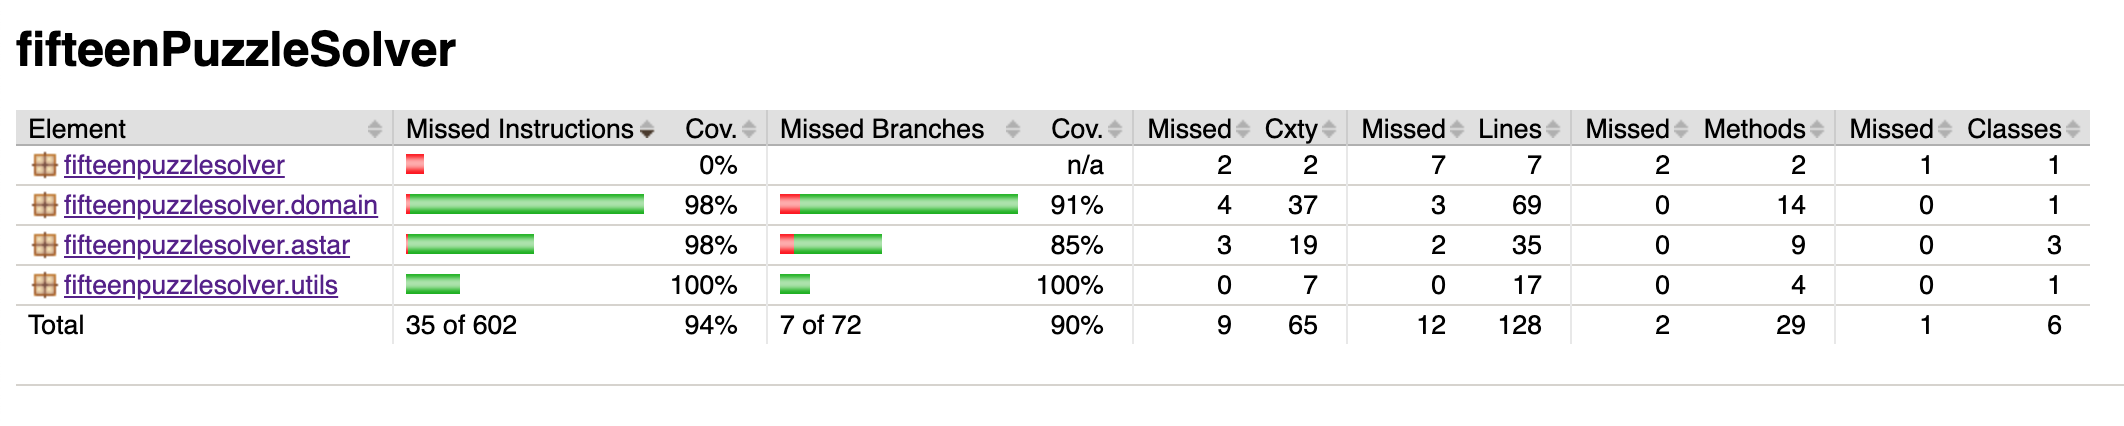
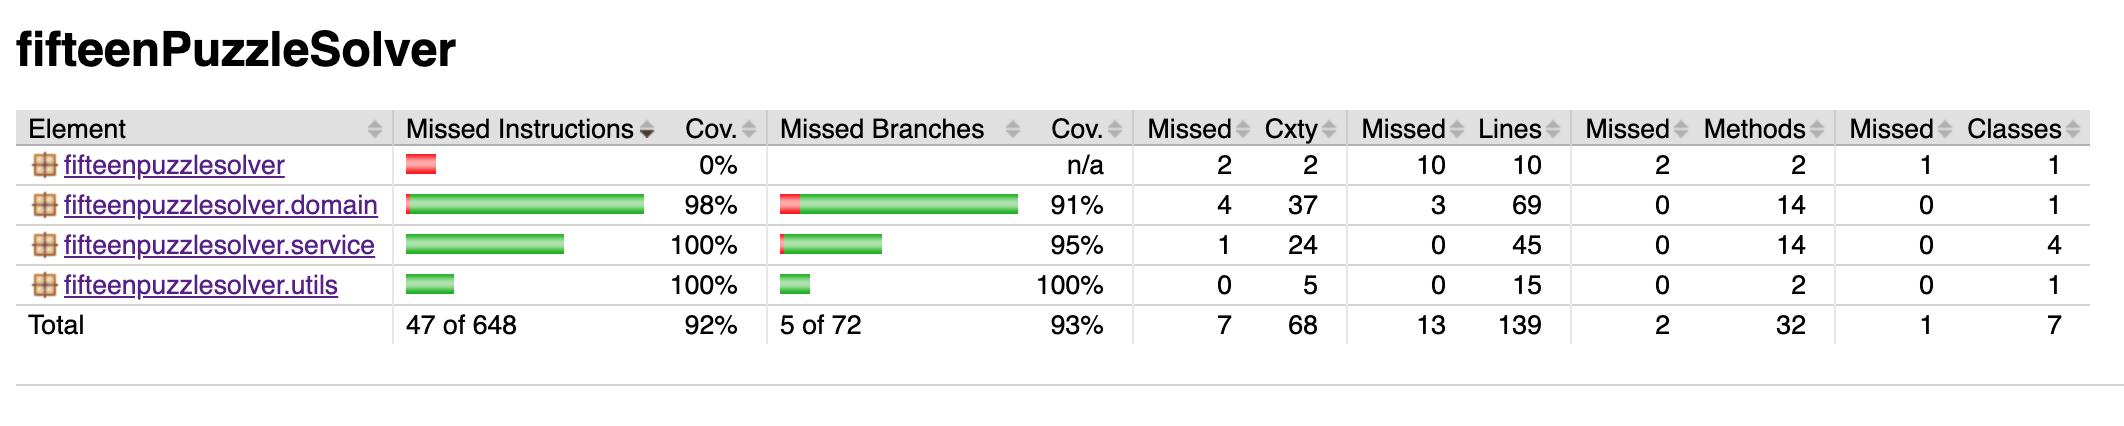
refactoring and more tests

diff --git a/src/main/java/fifteenpuzzlesolver/ui/TextUI.java b/src/main/java/fifteenpuzzlesolver/ui/TextUI.java
@@ -1,12 +1,8 @@
 
 package fifteenpuzzlesolver.ui;
 
-import fifteenpuzzlesolver.astar.AStar;
 import fifteenpuzzlesolver.domain.Puzzle;
-import fifteenpuzzlesolver.astar.StateComparatorManhattan;
-import fifteenpuzzlesolver.astar.StateComparatorPosition;
-import fifteenpuzzlesolver.utils.PuzzleGenerator;
-import java.util.Comparator;
+import fifteenpuzzlesolver.service.PuzzleService;
 import java.util.Scanner;
 
 /**
@@ -16,19 +12,16 @@ import java.util.Scanner;
 public class TextUI {
     
     private Scanner reader;
-    private AStar astar;
-    private PuzzleGenerator generator;
+    private PuzzleService service;
     
     /**
      * Constructor method.
      * @param reader Scanner which reads user input
-     * @param astar AStar algorithm class for solving puzzles
-     * @param generator Utility class for generating solvable puzzles
+     * @param service Class that provides methods for solving puzzles
      */
-    public TextUI(Scanner reader, AStar astar, PuzzleGenerator generator) {
+    public TextUI(Scanner reader, PuzzleService service) {
         this.reader = reader;
-        this.astar = astar;
-        this.generator = generator;
+        this.service = service;
     }
     
     /**
@@ -43,13 +36,11 @@ public class TextUI {
         System.out.println("x - Exit");
     }
     
-    public void solve(Puzzle puzzle, Comparator heuristic) {
-        long time1 = System.currentTimeMillis();
-        Puzzle endState = astar.traverse(puzzle, heuristic);
+    public void solve(long time1, Puzzle solved) {
         long time2 = System.currentTimeMillis();
-        
-        System.out.println(endState.toString());
-        System.out.println("Moves taken: " + endState.moves());
+                
+        System.out.println(solved.toString());
+        System.out.println("Moves taken: " + solved.moves());
         System.out.println("Time taken: " + (time2 - time1) / 1000 + " seconds");
     }
     
@@ -64,30 +55,22 @@ public class TextUI {
             String c = reader.nextLine();
             
             if (c.equals("e")) {
-                puzzle = generator.generateEasyPuzzle();
+                puzzle = this.service.generateEasyPuzzle();
                 System.out.println("GENERATED PUZZLE:");
                 System.out.println(puzzle.toString());
                 
             } else if (c.equals("h")) {
-                puzzle = generator.generateHardPuzzle();
+                puzzle = this.service.generateHardPuzzle();
                 System.out.println("GENERATED PUZZLE:");
                 System.out.println(puzzle.toString());
                 
-            } else if (c.equals("m")) {
-                if (puzzle == null) {
-                    System.out.println("No puzzle to solve - try to generate one!");
-                    continue;
-                }
-                StateComparatorManhattan manhattan = new StateComparatorManhattan();
-                solve(puzzle, manhattan);
+            } else if (c.equals("m") && puzzle != null) {
+                long time1 = System.currentTimeMillis();
+                solve(time1, this.service.solveWithManhattan(puzzle));
                 
-            } else if (c.equals("p")) {
-                if (puzzle == null) {
-                    System.out.println("No puzzle to solve - try to generate one!");
-                    continue;
-                }
-                StateComparatorPosition position = new StateComparatorPosition();
-                solve(puzzle, position);
+            } else if (c.equals("p") && puzzle != null) {
+                long time1 = System.currentTimeMillis();
+                solve(time1, this.service.solveWithPosition(puzzle));
                 
             } else if (c.equals("x")) {
                 break;

diff --git a/src/test/java/fifteenpuzzlesolver/service/TestPuzzleService.java b/src/test/java/fifteenpuzzlesolver/service/TestPuzzleService.java
@@ -1,0 +1,78 @@
+
+package fifteenpuzzlesolver.service;
+
+import fifteenpuzzlesolver.domain.FifteenPuzzle;
+import fifteenpuzzlesolver.domain.Puzzle;
+import fifteenpuzzlesolver.utils.PuzzleGenerator;
+import fifteenpuzzlesolver.utils.TestUtils;
+import java.util.Arrays;
+import java.util.List;
+import org.junit.Test;
+import static org.junit.Assert.*;
+
+/**
+ *
+ * @author miika
+ */
+public class TestPuzzleService {
+    
+    private PuzzleService service;
+    private List<int[]> boards;
+    
+    public TestPuzzleService() {
+        StateComparatorManhattan manhattan = new StateComparatorManhattan();
+        StateComparatorPosition position = new StateComparatorPosition();
+        PuzzleGenerator generator = new PuzzleGenerator();
+        TestUtils utils = new TestUtils();
+        AStar astar = new AStar();
+        
+        this.boards = utils.boardList();
+        this.service = new PuzzleService(astar, generator, manhattan, position);
+    }
+    
+    @Test
+    public void solveManhattanReturnsNullIfUnsolvable() {
+        assertEquals(null, this.service.solveWithManhattan(new FifteenPuzzle(this.boards.get(1))));
+    }
+    
+    @Test
+    public void solvePositionReturnsNullIfUnsolvable() {
+        assertEquals(null, this.service.solveWithPosition(new FifteenPuzzle(this.boards.get(1))));
+    }
+    
+    @Test
+    public void solveManhattanReturnsSolvedPuzzleIfSolvable() {
+        assertArrayEquals(this.boards.get(0), this.service.solveWithManhattan(new FifteenPuzzle(this.boards.get(2))).state());
+    }
+    
+    @Test
+    public void solvePositionReturnsSolvedPuzzleIfSolvable() {
+        assertArrayEquals(this.boards.get(0), this.service.solveWithPosition(new FifteenPuzzle(this.boards.get(2))).state());
+    }
+    
+    @Test
+    public void generatePuzzleIsFifteenPuzzle() {
+        Puzzle easyPuzzle = this.service.generateEasyPuzzle();
+        Puzzle hardPuzzle = this.service.generateHardPuzzle();
+        assertEquals(16, easyPuzzle.state().length);
+        assertEquals(16, hardPuzzle.state().length);
+    }
+    
+    @Test
+    public void generatePuzzleTilesSumUp() {
+        Puzzle easyPuzzle = this.service.generateEasyPuzzle();
+        Puzzle hardPuzzle = this.service.generateHardPuzzle();
+        int easyValue = Arrays.stream(easyPuzzle.state()).sum();
+        int hardValue = Arrays.stream(hardPuzzle.state()).sum();
+        assertEquals(120, easyValue);
+        assertEquals(120, hardValue);
+    }
+    
+    @Test
+    public void puzzleIsSolvable() {
+        assertTrue(this.service.generateEasyPuzzle().isSolvable());
+        assertTrue(this.service.generateHardPuzzle().isSolvable());
+    }
+    
+    
+}

diff --git a/src/main/java/fifteenpuzzlesolver/service/PuzzleService.java b/src/main/java/fifteenpuzzlesolver/service/PuzzleService.java
@@ -1,0 +1,68 @@
+
+package fifteenpuzzlesolver.service;
+
+import fifteenpuzzlesolver.domain.Puzzle;
+import fifteenpuzzlesolver.utils.PuzzleGenerator;
+
+/**
+ * Class that provides services for solving and generating puzzles.
+ * @author miika
+ */
+public class PuzzleService {
+ 
+    private AStar astar;
+    private PuzzleGenerator generator;
+    private StateComparatorManhattan manhattan;
+    private StateComparatorPosition position;
+    
+    /**
+     * Constructor method.
+     * @param astar Class that provides implementation of A* -algorithm
+     * @param generator Utility class that provides methods for generating puzzles
+     * @param manhattan Comparator class that uses manhattan heuristics for comparing puzzles
+     * @param position Comparator class that uses position based heuristics for comparing puzzles
+     */
+    public PuzzleService(AStar astar, PuzzleGenerator generator, StateComparatorManhattan manhattan,
+            StateComparatorPosition position) {
+        this.astar = astar;
+        this.generator = generator;
+        this.manhattan = manhattan;
+        this.position = position;
+    }
+    
+    /**
+     * Method which solves puzzle using A* and manhattan heuristics.
+     * 
+     * @param puzzle Puzzle to solve
+     * @return Solved puzzle if puzzle is solvable. Null otherwise
+     */
+    public Puzzle solveWithManhattan(Puzzle puzzle) {
+        return this.astar.traverse(puzzle, this.manhattan);
+    }
+    
+    /**
+     * Method which solves puzzle using A* and position based heuristics.
+     * 
+     * @param puzzle Puzzle to solve
+     * @return Solved puzzle if puzzle is solvable. Null otherwise
+     */
+    public Puzzle solveWithPosition(Puzzle puzzle) {
+        return this.astar.traverse(puzzle, this.position);
+    }
+    
+    /**
+     * Method for generating easy 15-puzzle. Puzzle have been shuffled 3 times
+     * @return 15-puzzle
+     */
+    public Puzzle generateEasyPuzzle() {
+        return this.generator.generatePuzzle(3);
+    }
+    
+    /**
+     * Method for generating hard 15-puzzle. Puzzle have been shuffled 100 times
+     * @return 15-puzzle
+     */
+    public Puzzle generateHardPuzzle() {
+        return this.generator.generatePuzzle(100);
+    }
+}

diff --git a/src/main/java/fifteenpuzzlesolver/FifteenPuzzleSolver.java b/src/main/java/fifteenpuzzlesolver/FifteenPuzzleSolver.java
@@ -1,7 +1,10 @@
 
 package fifteenpuzzlesolver;
 
-import fifteenpuzzlesolver.astar.AStar;
+import fifteenpuzzlesolver.service.AStar;
+import fifteenpuzzlesolver.service.PuzzleService;
+import fifteenpuzzlesolver.service.StateComparatorManhattan;
+import fifteenpuzzlesolver.service.StateComparatorPosition;
 import fifteenpuzzlesolver.ui.TextUI;
 import fifteenpuzzlesolver.utils.PuzzleGenerator;
 import java.util.Scanner;
@@ -12,11 +15,14 @@ import java.util.Scanner;
  */
 public class FifteenPuzzleSolver {
     public static void main(String[] args) {
+        StateComparatorManhattan manhattan = new StateComparatorManhattan();
+        StateComparatorPosition position = new StateComparatorPosition();
+        PuzzleGenerator generator = new PuzzleGenerator();
         Scanner reader = new Scanner(System.in);
         AStar astar = new AStar();
-        PuzzleGenerator generator = new PuzzleGenerator();
         
-        TextUI ui = new TextUI(reader, astar, generator);
+        PuzzleService service = new PuzzleService(astar, generator, manhattan, position);
+        TextUI ui = new TextUI(reader, service);
         
         ui.initialize();
     }

diff --git a/src/test/java/fifteenpuzzlesolver/utils/TestPuzzleGenerator.java b/src/test/java/fifteenpuzzlesolver/utils/TestPuzzleGenerator.java
@@ -20,8 +20,8 @@ public class TestPuzzleGenerator {
     
     @Test
     public void generatePuzzleIsFifteenPuzzle() {
-        Puzzle easyPuzzle = generator.generateEasyPuzzle();
-        Puzzle hardPuzzle = generator.generateHardPuzzle();
+        Puzzle easyPuzzle = generator.generatePuzzle(2);
+        Puzzle hardPuzzle = generator.generatePuzzle(100);
         assertEquals(16, easyPuzzle.state().length);
         assertEquals(16, hardPuzzle.state().length);
     }
@@ -38,7 +38,8 @@ public class TestPuzzleGenerator {
     
     @Test
     public void puzzleIsSolvable() {
-        assertTrue(generator.generateEasyPuzzle().isSolvable());
-        assertTrue(generator.generateHardPuzzle().isSolvable());
+        assertTrue(generator.generatePuzzle(3).isSolvable());
+        assertTrue(generator.generatePuzzle(100).isSolvable());
+        assertTrue(generator.generatePuzzle(1000).isSolvable());
     }
 }

diff --git a/src/main/java/fifteenpuzzlesolver/utils/PuzzleGenerator.java b/src/main/java/fifteenpuzzlesolver/utils/PuzzleGenerator.java
@@ -13,22 +13,6 @@ import java.util.Random;
 public class PuzzleGenerator {
     
     /**
-     * Method for generating easy 15-puzzle. Puzzle have been suffled only two times
-     * @return 15-puzzle
-     */
-    public Puzzle generateEasyPuzzle() {
-        return generatePuzzle(2);
-    }
-    
-    /**
-     * Method for generating hard 15-puzzle. Puzzle have been suffled 100 times
-     * @return 15-puzzle
-     */
-    public Puzzle generateHardPuzzle() {
-        return generatePuzzle(100);
-    }
-    
-    /**
      * Method for generating puzzles. Puzzle gets harder when suffles increase
      * 
      * @param suffles Number of two random tiles that are switched

diff --git a/src/test/java/fifteenpuzzlesolver/service/TestStateComparatorManhattan.java b/src/test/java/fifteenpuzzlesolver/service/TestStateComparatorManhattan.java
@@ -1,6 +1,7 @@
 
-package fifteenpuzzlesolver.astar;
+package fifteenpuzzlesolver.service;
 
+import fifteenpuzzlesolver.service.StateComparatorManhattan;
 import fifteenpuzzlesolver.domain.FifteenPuzzle;
 import fifteenpuzzlesolver.utils.TestUtils;
 import org.junit.Test;

diff --git a/src/test/java/fifteenpuzzlesolver/service/TestStateComparatorPosition.java b/src/test/java/fifteenpuzzlesolver/service/TestStateComparatorPosition.java
@@ -1,6 +1,7 @@
 
-package fifteenpuzzlesolver.astar;
+package fifteenpuzzlesolver.service;
 
+import fifteenpuzzlesolver.service.StateComparatorPosition;
 import fifteenpuzzlesolver.domain.FifteenPuzzle;
 import fifteenpuzzlesolver.utils.TestUtils;
 import org.junit.Test;

diff --git a/src/test/java/fifteenpuzzlesolver/service/TestAStar.java b/src/test/java/fifteenpuzzlesolver/service/TestAStar.java
@@ -1,5 +1,5 @@
 
-package fifteenpuzzlesolver.astar;
+package fifteenpuzzlesolver.service;
 
 import fifteenpuzzlesolver.domain.FifteenPuzzle;
 import fifteenpuzzlesolver.domain.Puzzle;

diff --git a/src/main/java/fifteenpuzzlesolver/service/AStar.java b/src/main/java/fifteenpuzzlesolver/service/AStar.java
@@ -1,5 +1,5 @@
 
-package fifteenpuzzlesolver.astar;
+package fifteenpuzzlesolver.service;
 
 import fifteenpuzzlesolver.domain.Puzzle;
 import java.util.Comparator;

diff --git a/src/main/java/fifteenpuzzlesolver/service/StateComparatorManhattan.java b/src/main/java/fifteenpuzzlesolver/service/StateComparatorManhattan.java
@@ -1,5 +1,5 @@
 
-package fifteenpuzzlesolver.astar;
+package fifteenpuzzlesolver.service;
 
 import fifteenpuzzlesolver.domain.Puzzle;
 import java.util.Comparator;

diff --git a/src/main/java/fifteenpuzzlesolver/service/StateComparatorPosition.java b/src/main/java/fifteenpuzzlesolver/service/StateComparatorPosition.java
@@ -1,5 +1,5 @@
 
-package fifteenpuzzlesolver.astar;
+package fifteenpuzzlesolver.service;
 
 import fifteenpuzzlesolver.domain.Puzzle;
 import java.util.Comparator;
